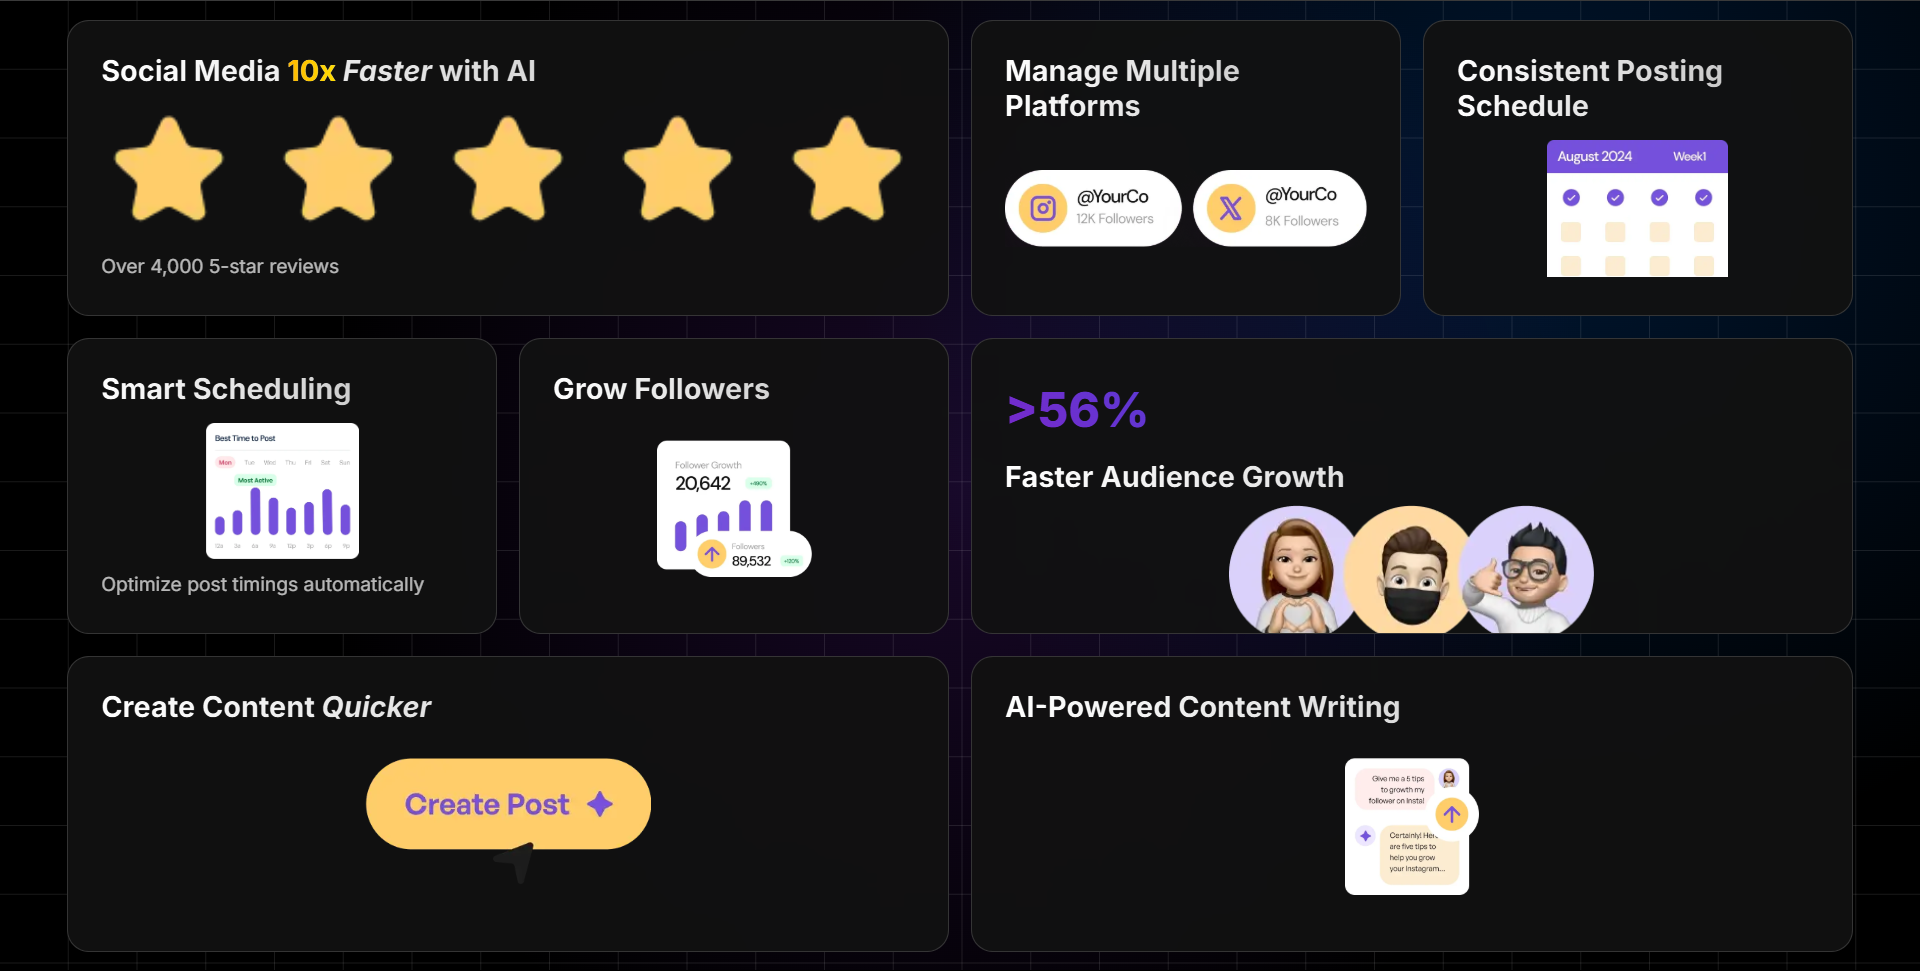
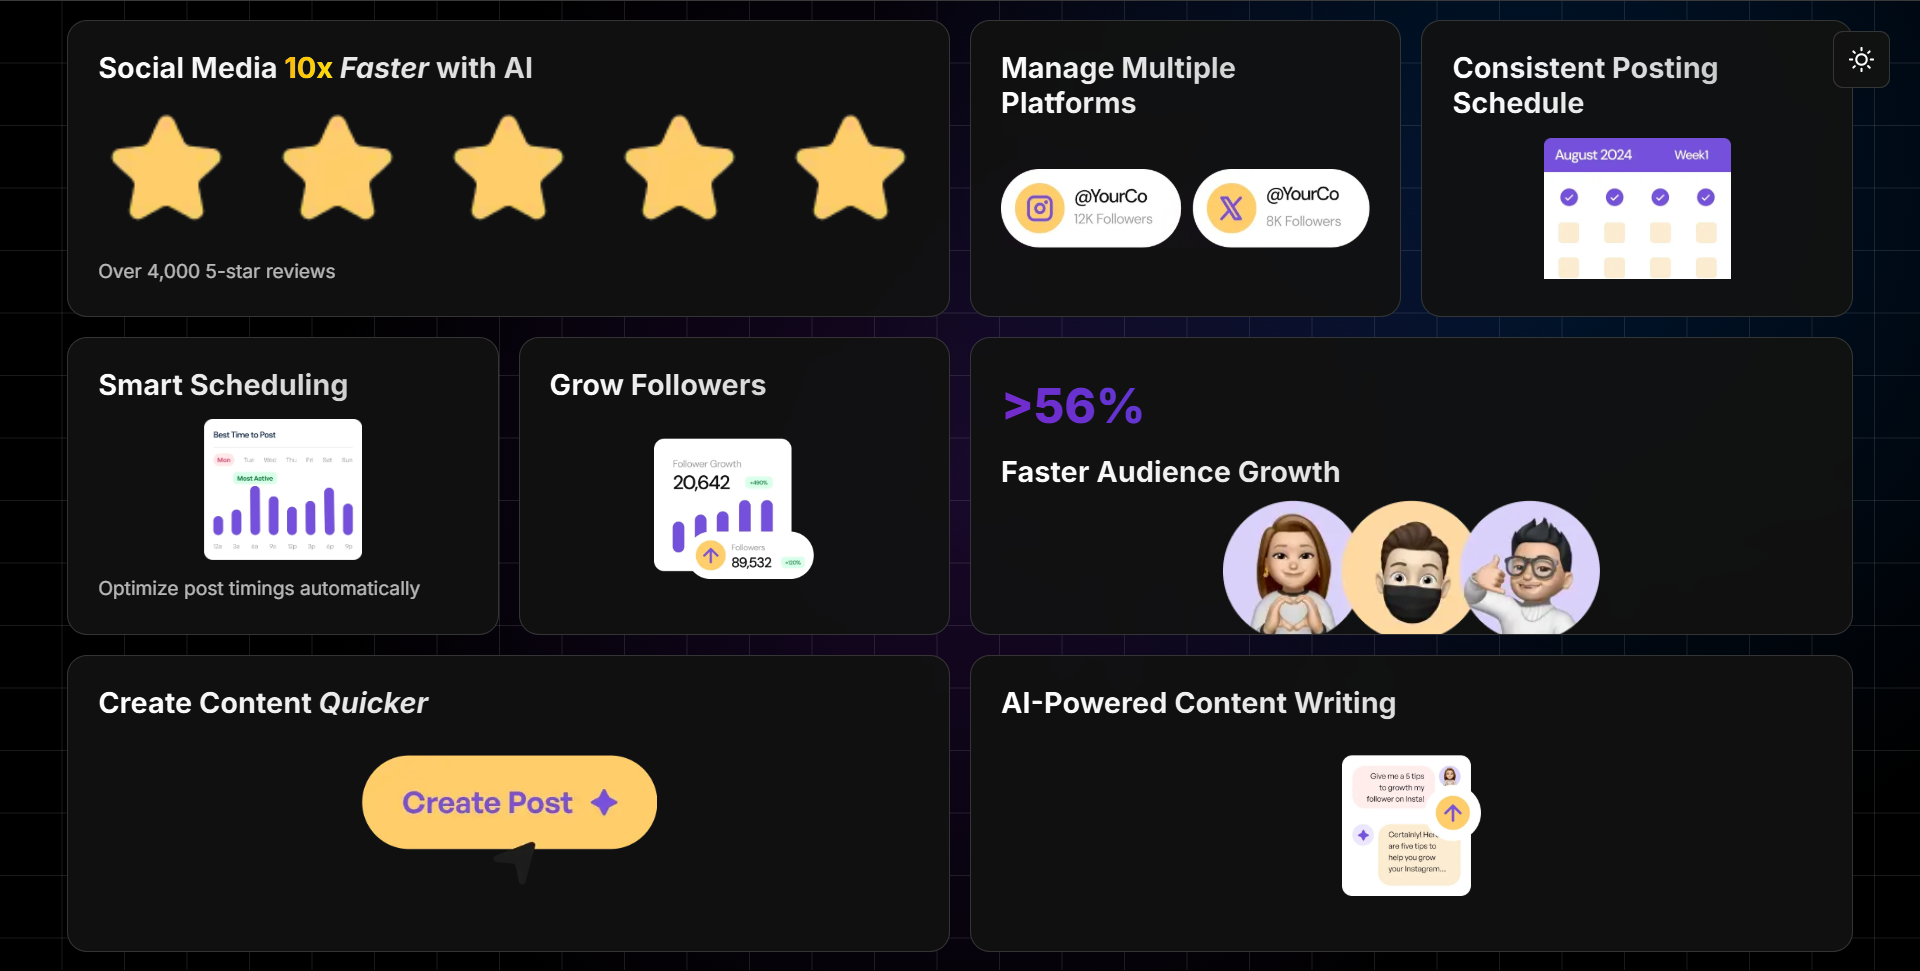
refactor: Update README.md to improve theme section and fix screenshot references

diff --git a/README.md b/README.md
@@ -134,14 +134,17 @@ We welcome contributions! Here's how you can help:
 
 <div align="center">
 
-### Bento Grid Interface
+### **Bento Grid Interface Light Theme**
+![Light Theme](./screenshots/LightModeScreenshot.png)
+
+### **Bento Grid Interface Dark Theme**
 ![Dark Mode](./screenshots/DesktopScreenshot.png)
 
-### Tablet Bento Grid Interface
+### **Tablet Bento Grid Interface**
 <img src="./screenshots/TabletScreenshot.png" alt="Tablet Screenshot" width="768">
 
-### Mobile Bento Grid Interface
-<img src="./screenshots/MobileScreensot.png" alt="Mobile Screenshot" width="375">
+### **Mobile Bento Grid Interface**
+<img src="./screenshots/MobileScreenshot.png" alt="Mobile Screenshot" width="375">
 
 </div>
 
